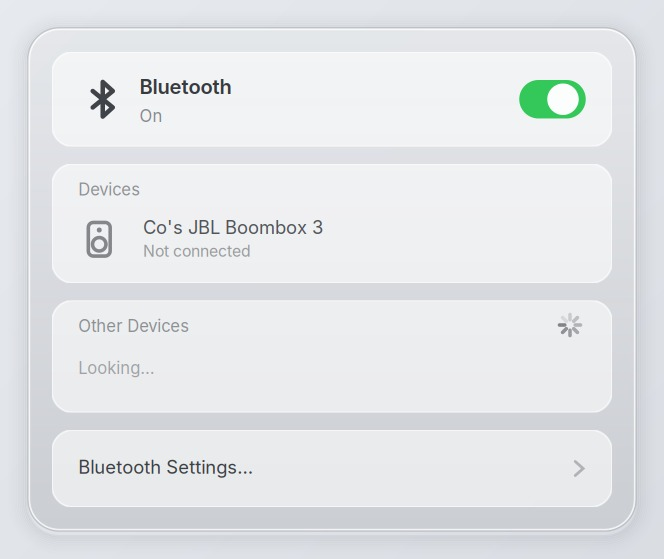
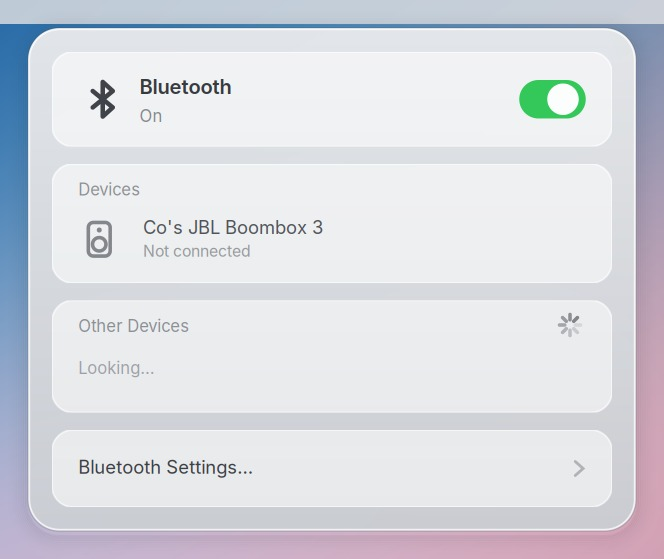
Refresh README screenshots for current menus

Changed region(s): [[0.0, 0.0, 1.0, 1.0], [0.8434, 0.5474, 0.8735, 0.6082]]

diff --git a/README.md b/README.md
@@ -19,11 +19,11 @@ No Apple logo. No blur. A 52px glass bar, a dock, and Cmd+Space.
 <p align="center">
   <img src="docs/images/files.jpg" alt="Files" width="48%">
   &nbsp;
-  <img src="docs/images/spotlight.jpg" alt="Spotlight" width="48%">
+  <img src="docs/images/spotlight.jpg" alt="Spotlight system actions" width="48%">
 </p>
 
 The bar keeps what you read — CPU, temperature, Bluetooth, Wi-Fi, battery, the clock.
-Everything you *set* is one click away, in a Control Center that is nine small
+Everything you *set* is one click away, in a Control Center that is eleven small
 executables in a directory. Adding a tile is a twelve-line file.
 
 <p align="center">
@@ -57,7 +57,7 @@ The wiring: [desktop](docs/desktop.md) · [control center](docs/control-center.m
 ## Daily shortcuts
 
 Cmd+Space searches applications and system actions: appearance, Bluetooth,
-battery history, system health, updates, and timed Keep Awake. Cmd+Left/Right
+battery history, system health, updates, sleep checks, and timed Keep Awake. Cmd+Left/Right
 places the current window in either half of its monitor; Cmd+Down restores it.
 Screenshots offer **Copy** and **Open** in their notification.
 
